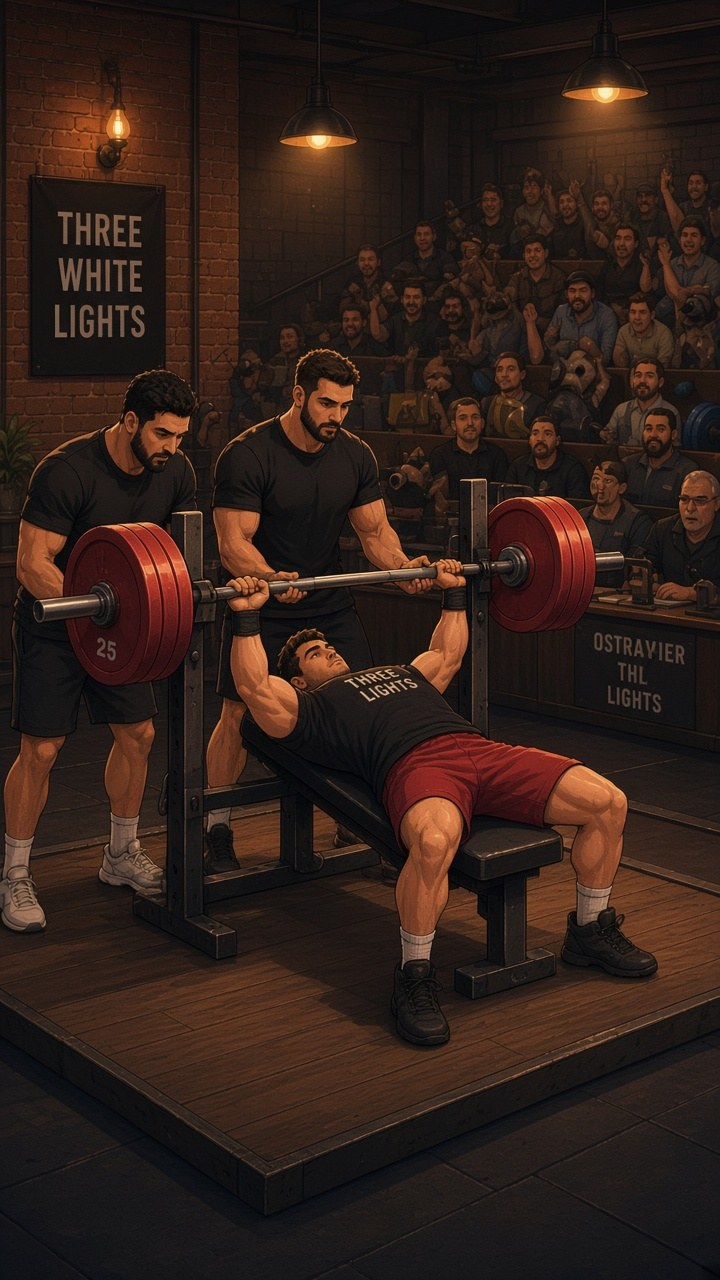
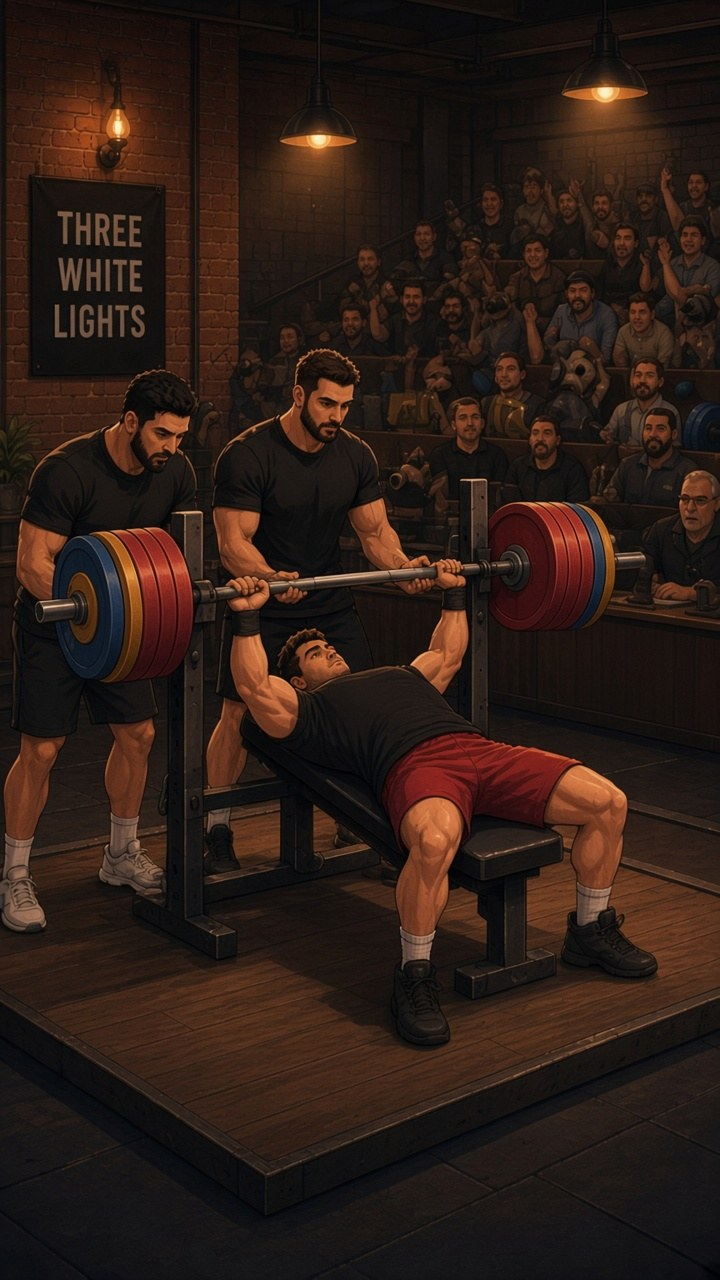
Give Meet Day a readable loaded bar, heavier on the third
Walkout and verdict pick a packed-third squat still on attempt 3.
Opener stills keep a thinner competition stack. Regenerated meet
JPEGs have no sleeve numerals, no judge-card garbage, and no HUD
baked in — HUD stays a React overlay.

diff --git a/src/meet/ironAmberHall.test.ts b/src/meet/ironAmberHall.test.ts
@@ -3,6 +3,7 @@ import path from 'node:path';
 import { fileURLToPath } from 'node:url';
 import { describe, expect, it } from 'vitest';
 
+import { ATTEMPTS_PER_LIFT } from '../game/meet';
 import { IRON_AMBER } from '../game/sessionTuning';
 import { MEET_LAYOUT } from '../game/meetTuning';
 import {
@@ -13,6 +14,9 @@ import {
   MEET_HALL_PLATE_IDS,
 } from './ironAmberHall';
 
+const OPENER = 1 as const;
+const THIRD = ATTEMPTS_PER_LIFT;
+
 const ASSET_DIR = path.join(path.dirname(fileURLToPath(import.meta.url)), '../../assets/iron-amber');
 
 const PHONE_W = 390;
@@ -20,24 +24,33 @@ const PHONE_H = 844;
 
 describe('Iron & Amber meet hall stills', () => {
   it('an empty platform is the meet hall, never a training garage plate', () => {
-    expect(ironAmberHallPlateId('squat', 'SET', true)).toBe('meet-empty');
-    expect(ironAmberHallPlateId(null, null, true)).toBe('meet-empty');
+    expect(ironAmberHallPlateId('squat', 'SET', true, OPENER)).toBe('meet-empty');
+    expect(ironAmberHallPlateId(null, null, true, null)).toBe('meet-empty');
   });
 
   it('the step and the unrack are not the settled brace', () => {
-    expect(ironAmberHallPlateId('squat', 'STEP', false)).toBe('meet-squat-walk');
-    expect(ironAmberHallPlateId('squat', 'UNRACK', false)).toBe('meet-squat-walk');
-    expect(ironAmberHallPlateId('squat', 'SET', false)).toBe('meet-squat-brace');
-    expect(ironAmberHallPlateId('squat', 'HUSH', false)).toBe('meet-squat-brace');
-    expect(ironAmberHallPlateId('bench', 'STEP', false)).toBe('meet-bench');
-    expect(ironAmberHallPlateId('bench', 'SET', false)).toBe('meet-bench');
-    expect(ironAmberHallPlateId('deadlift', 'LOAD', false)).toBe('meet-empty');
-    expect(ironAmberHallPlateId('deadlift', 'STEP', false)).toBe('meet-deadlift');
-    expect(ironAmberHallPlateId('deadlift', 'HUSH', false)).toBe('meet-deadlift');
+    expect(ironAmberHallPlateId('squat', 'STEP', false, OPENER)).toBe('meet-squat-walk');
+    expect(ironAmberHallPlateId('squat', 'UNRACK', false, OPENER)).toBe('meet-squat-walk');
+    expect(ironAmberHallPlateId('squat', 'SET', false, OPENER)).toBe('meet-squat-brace');
+    expect(ironAmberHallPlateId('squat', 'HUSH', false, OPENER)).toBe('meet-squat-brace');
+    expect(ironAmberHallPlateId('bench', 'STEP', false, OPENER)).toBe('meet-bench');
+    expect(ironAmberHallPlateId('bench', 'SET', false, OPENER)).toBe('meet-bench');
+    expect(ironAmberHallPlateId('deadlift', 'LOAD', false, OPENER)).toBe('meet-empty');
+    expect(ironAmberHallPlateId('deadlift', 'STEP', false, OPENER)).toBe('meet-deadlift');
+    expect(ironAmberHallPlateId('deadlift', 'HUSH', false, OPENER)).toBe('meet-deadlift');
+  });
+
+  it('the last squat draws the packed-third bar, not the opener stack', () => {
+    expect(ironAmberHallPlateId('squat', 'STEP', false, THIRD)).toBe('meet-squat-walk-third');
+    expect(ironAmberHallPlateId('squat', 'UNRACK', false, THIRD)).toBe('meet-squat-walk-third');
+    expect(ironAmberHallPlateId('squat', 'SET', false, THIRD)).toBe('meet-squat-brace-third');
+    expect(ironAmberHallPlateId('squat', 'HUSH', false, THIRD)).toBe('meet-squat-brace-third');
+    expect(ironAmberHallPlateId('squat', null, false, THIRD)).toBe('meet-squat-brace-third');
+    expect(ironAmberHallPlateId('bench', 'SET', false, THIRD)).toBe('meet-bench');
   });
 
   it('a missing pose is the settled still, so deliberation and a no-lift match', () => {
-    expect(ironAmberHallPlateId('squat', null, false)).toBe('meet-squat-brace');
+    expect(ironAmberHallPlateId('squat', null, false, OPENER)).toBe('meet-squat-brace');
     const settled = ironAmberHallLayout(PHONE_W, PHONE_H, 'meet-squat-brace', 0, 0, 0);
     const omitted = ironAmberHallLayout(PHONE_W, PHONE_H, 'meet-squat-brace', 0, 0, 0);
     expect(omitted).toEqual(settled);

diff --git a/src/meet/ironAmberHall.ts b/src/meet/ironAmberHall.ts
@@ -12,10 +12,12 @@
  * on the daily set. These ids are the packed-platform stills.
  *
  * PURE. Zero React, zero I/O. Every number is `MEET_LAYOUT` or `IRON_AMBER`.
+ * Which still is a third-attempt packed bar is `ATTEMPTS_PER_LIFT`, a sport
+ * constant, not a feel knob.
  */
 import { IRON_AMBER } from '../game/sessionTuning';
 import { MEET_LAYOUT } from '../game/meetTuning';
-import type { LiftKind } from '../game/meet';
+import { ATTEMPTS_PER_LIFT, type AttemptNumber, type LiftKind } from '../game/meet';
 import type { LiftPhase } from '../game/lift';
 import {
   ironAmberCoverRect,
@@ -30,6 +32,15 @@ const L = MEET_LAYOUT;
 export type MeetHallPlateId =
   | 'meet-empty'
   | 'meet-squat-walk'
+  | 'meet-squat-walk-third'
+  | 'meet-squat-brace'
+  | 'meet-squat-brace-third'
+  | 'meet-bench'
+  | 'meet-deadlift';
+
+/** Press-surface stills. The attempt stage cannot take an attempt number. */
+export type MeetAttemptPlateId =
+  | 'meet-squat-walk'
   | 'meet-squat-brace'
   | 'meet-bench'
   | 'meet-deadlift';
@@ -37,7 +48,9 @@ export type MeetHallPlateId =
 export const MEET_HALL_PLATE_IDS = Object.freeze([
   'meet-empty',
   'meet-squat-walk',
+  'meet-squat-walk-third',
   'meet-squat-brace',
+  'meet-squat-brace-third',
   'meet-bench',
   'meet-deadlift',
 ] as const satisfies readonly MeetHallPlateId[]);
@@ -45,7 +58,9 @@ export const MEET_HALL_PLATE_IDS = Object.freeze([
 export const MEET_HALL_PLATE_FILES = Object.freeze({
   'meet-empty': 'meet-empty.jpg',
   'meet-squat-walk': 'meet-squat-walk.jpg',
+  'meet-squat-walk-third': 'meet-squat-walk-third.jpg',
   'meet-squat-brace': 'meet-squat-brace.jpg',
+  'meet-squat-brace-third': 'meet-squat-brace-third.jpg',
   'meet-bench': 'meet-bench.jpg',
   'meet-deadlift': 'meet-deadlift.jpg',
 } as const satisfies Record<MeetHallPlateId, string>);
@@ -54,8 +69,10 @@ export function ironAmberHallPlateId(
   kind: LiftKind | null,
   stage: WalkoutStage | null,
   empty: boolean,
+  attemptNumber: AttemptNumber | null,
 ): MeetHallPlateId {
   if (empty || kind === null) return 'meet-empty';
+  const third = attemptNumber === ATTEMPTS_PER_LIFT;
   const walking = stage === 'STEP' || stage === 'UNRACK';
   if (kind === 'deadlift') {
     if (stage === 'LOAD') return 'meet-empty';
@@ -64,19 +81,17 @@ export function ironAmberHallPlateId(
   if (kind === 'bench') {
     return 'meet-bench';
   }
-  if (walking) return 'meet-squat-walk';
-  return 'meet-squat-brace';
+  if (walking) return third ? 'meet-squat-walk-third' : 'meet-squat-walk';
+  return third ? 'meet-squat-brace-third' : 'meet-squat-brace';
 }
 
 /**
  * The still behind a meet *attempt* (the press surface), as opposed to the
  * walk-out hall. One plate per lift: the hall is the venue, not a garage
- * pose ladder.
+ * pose ladder. LiftStage cannot take an attempt number, so this is the opener
+ * stack; the walk-out and verdict pick the packed-third still themselves.
  */
-export function meetAttemptPlateId(
-  kind: LiftKind,
-  phase: LiftPhase,
-): Exclude<MeetHallPlateId, 'meet-empty'> {
+export function meetAttemptPlateId(kind: LiftKind, phase: LiftPhase): MeetAttemptPlateId {
   if (kind === 'deadlift') return 'meet-deadlift';
   if (kind === 'bench') return 'meet-bench';
   if (phase === 'ASCENT' || phase === 'LOCKOUT') return 'meet-squat-walk';

diff --git a/src/meet/MeetHallView.tsx b/src/meet/MeetHallView.tsx
@@ -31,7 +31,7 @@ import { Image, StyleSheet, View } from 'react-native';
 
 import { IRON_AMBER } from '../game/sessionTuning';
 import { MEET_COPY } from '../game/meetTuning';
-import type { LiftKind } from '../game/meet';
+import type { AttemptNumber, LiftKind } from '../game/meet';
 import { hallPlateCount } from './meetHall';
 import {
   ironAmberHallLayout,
@@ -43,14 +43,18 @@ import { MEET_PALETTE } from './meetPalette';
 
 import meetEmpty from '../../assets/iron-amber/meet-empty.jpg';
 import meetSquatWalk from '../../assets/iron-amber/meet-squat-walk.jpg';
+import meetSquatWalkThird from '../../assets/iron-amber/meet-squat-walk-third.jpg';
 import meetSquatBrace from '../../assets/iron-amber/meet-squat-brace.jpg';
+import meetSquatBraceThird from '../../assets/iron-amber/meet-squat-brace-third.jpg';
 import meetBench from '../../assets/iron-amber/meet-bench.jpg';
 import meetDeadlift from '../../assets/iron-amber/meet-deadlift.jpg';
 
 const PLATE_SOURCE: Record<MeetHallPlateId, number> = {
   'meet-empty': meetEmpty,
   'meet-squat-walk': meetSquatWalk,
+  'meet-squat-walk-third': meetSquatWalkThird,
   'meet-squat-brace': meetSquatBrace,
+  'meet-squat-brace-third': meetSquatBraceThird,
   'meet-bench': meetBench,
   'meet-deadlift': meetDeadlift,
 };
@@ -64,6 +68,8 @@ export interface MeetHallLifter {
   readonly barAndCollarsKg: number;
   /** Attempt weight over the lifter's best single — how hard he is drawn. */
   readonly loadRatio: number;
+  /** Which attempt this is. The last one draws the packed-third bar. */
+  readonly attemptNumber: AttemptNumber;
   /**
    * Discs per side that have landed so far. Omitted, the bar is already loaded,
    * which is what every beat after the walk-out wants.
@@ -98,7 +104,12 @@ export function MeetHallView({
   const empty = lifter === null;
   const pose = lifter?.pose ?? null;
   const kind = lifter?.kind ?? null;
-  const plateId = ironAmberHallPlateId(kind, pose?.stage ?? null, empty);
+  const plateId = ironAmberHallPlateId(
+    kind,
+    pose?.stage ?? null,
+    empty,
+    lifter?.attemptNumber ?? null,
+  );
   const platesShown =
     lifter === null
       ? 0

diff --git a/src/meet/meetStage.test.ts b/src/meet/meetStage.test.ts
@@ -503,6 +503,9 @@ describe('every beat of meet day happens somewhere (GDD §12.2)', () => {
     expect(walkout ?? '', 'the walkout never brings the hall up').toContain(
       'crowdRisePx={pose.crowdRisePx}',
     );
+    expect(walkout ?? '', 'the walkout hides which attempt this is').toContain(
+      'attemptNumber: attempt.attemptNumber',
+    );
 
     // ...and the verdict brings it up too, which is the crowd's other moment —
     // GATED ON A GOOD LIFT AND ON THE LIGHTS BEING OUT. A hall that reacted
@@ -527,6 +530,7 @@ describe('every beat of meet day happens somewhere (GDD §12.2)', () => {
     expect(hall, 'MeetHallView ignores the pose it is handed').toContain('pose?.stage');
     expect(hall, 'MeetHallView ignores where the walk-out puts him').toContain('pose?.bodyDxPx');
     expect(hall, 'MeetHallView ignores crowd rise').toContain('crowdRisePx');
+    expect(hall, 'MeetHallView ignores which attempt this is').toContain('lifter?.attemptNumber');
     expect(hall, 'MeetHallView no longer frames the still from the sheet').toContain(
       'ironAmberHallLayout',
     );
@@ -781,6 +785,10 @@ describe('every beat of meet day happens somewhere (GDD §12.2)', () => {
       verdict ?? '',
       'the bar the wait is drawn with is not the attempt’s bar',
     ).toContain('totalKg: attempt.weightKg');
+    expect(
+      verdict ?? '',
+      'the wait hides which attempt this is',
+    ).toContain('attemptNumber: attempt.attemptNumber');
     // ...and nothing is holding discs back: `platesLoaded` is the walk-out's
     // channel, and a verdict that passed one would be drawing a part-loaded bar.
     expect(verdict ?? '', 'the verdict hides part of the stack').not.toMatch(

diff --git a/src/session/TrainingLiftStage.tsx b/src/session/TrainingLiftStage.tsx
@@ -35,7 +35,7 @@ import {
 import type { LiftStageProps } from '../lift/LiftStage';
 import { SESSION_PALETTE } from './sessionPalette';
 import { ironAmberPlateFor, ironAmberPlateLayout, type IronAmberPlateId } from './ironAmberPlates';
-import { meetAttemptPlateId, type MeetHallPlateId } from '../meet/ironAmberHall';
+import { meetAttemptPlateId, type MeetAttemptPlateId } from '../meet/ironAmberHall';
 
 import squatBrace from '../../assets/iron-amber/squat-brace.jpg';
 import squatHole from '../../assets/iron-amber/squat-hole.jpg';
@@ -66,7 +66,7 @@ const PLATE_SOURCE: Record<Exclude<IronAmberPlateId, 'gym-briefing'>, number> = 
   'deadlift-lockout': deadliftLockout,
 };
 
-const MEET_ATTEMPT_SOURCE: Record<Exclude<MeetHallPlateId, 'meet-empty'>, number> = {
+const MEET_ATTEMPT_SOURCE: Record<MeetAttemptPlateId, number> = {
   'meet-squat-walk': meetSquatWalk,
   'meet-squat-brace': meetSquatBrace,
   'meet-bench': meetBench,

diff --git a/src/session/ironAmberWiring.test.ts b/src/session/ironAmberWiring.test.ts
@@ -47,6 +47,9 @@ describe('Iron & Amber training path wiring', () => {
     const hall = source('../meet/MeetHallView.tsx');
     expect(hall).toContain('meet-empty.jpg');
     expect(hall).toContain('meet-squat-brace.jpg');
+    expect(hall).toContain('meet-squat-brace-third.jpg');
+    expect(hall).toContain('meet-squat-walk-third.jpg');
+    expect(hall).toContain('lifter?.attemptNumber');
     expect(hall).not.toContain("from '../../assets/iron-amber/gym-briefing.jpg'");
     expect(hall).not.toContain("from '../../assets/iron-amber/squat-brace.jpg'");
     expect(hall).toContain('ironAmberHallPlateId');

diff --git a/src/licensing/realIp.ts b/src/licensing/realIp.ts
@@ -971,7 +971,7 @@ export interface UnreadableGroup {
  */
 export const UNREADABLE_BY_THIS_AUDIT: readonly UnreadableGroup[] = Object.freeze([
   { extension: '.jpeg', reason: 'nul-byte', count: 1 },
-  { extension: '.jpg', reason: 'nul-byte', count: 15 },
+  { extension: '.jpg', reason: 'nul-byte', count: 17 },
   { extension: '.png', reason: 'nul-byte', count: 10 },
   { extension: '.wav', reason: 'nul-byte', count: 7 },
   { extension: '.webp', reason: 'nul-byte', count: 2 },

diff --git a/src/meet/VerdictView.tsx b/src/meet/VerdictView.tsx
@@ -252,6 +252,7 @@ export function VerdictView({
             totalKg: attempt.weightKg,
             barAndCollarsKg,
             loadRatio,
+            attemptNumber: attempt.attemptNumber,
             pose,
           }}
           scrim={MEET_TUNING.HALL.JUDGING_SCRIM}

diff --git a/src/meet/WalkoutView.tsx b/src/meet/WalkoutView.tsx
@@ -337,6 +337,7 @@ export function WalkoutView({
             totalKg: attempt.weightKg,
             barAndCollarsKg,
             loadRatio,
+            attemptNumber: attempt.attemptNumber,
             platesLoaded,
             pose,
           }}
